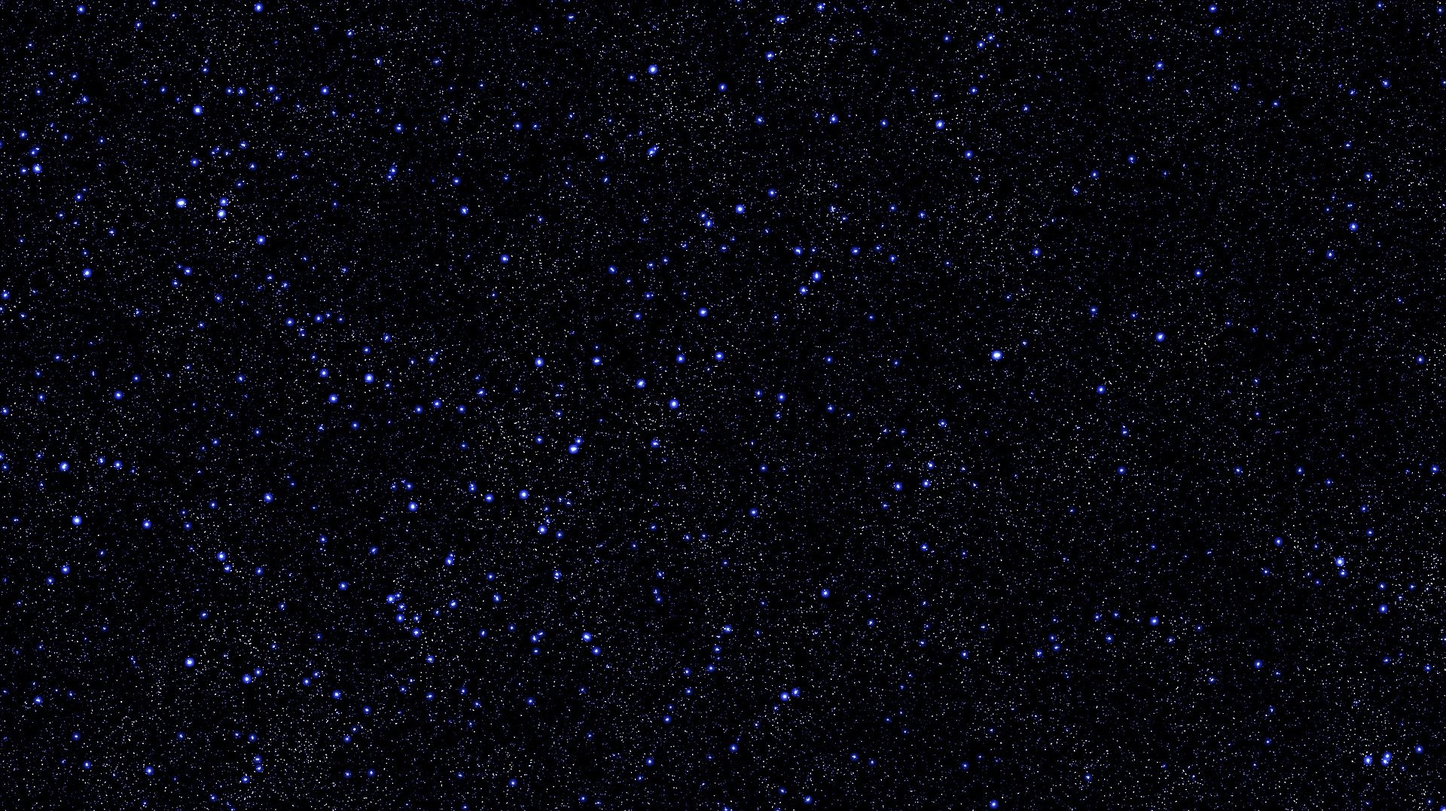
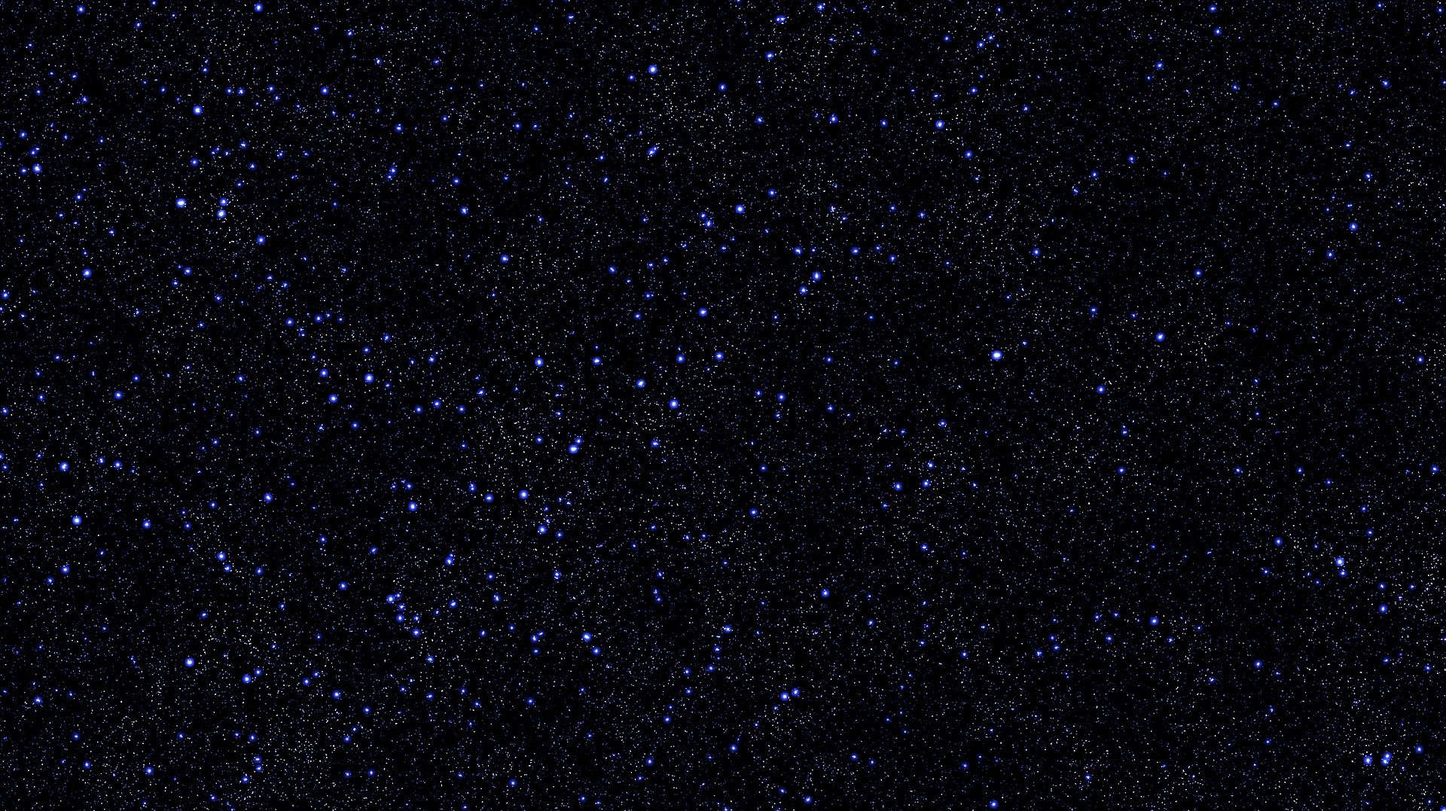
Compress background

diff --git a/js/search.js b/js/search.js
@@ -5,7 +5,7 @@ function dropdownSearch(){
 }
 
 function dropdownItem(dropdownOption, itemUrl){ 
-  deleteDropdown();
+  deleteOptionsDropdown();
   let selectItem = document.getElementById("item");
   let select = document.createElement("select");
   let option = document.createElement("option");
@@ -37,8 +37,6 @@ function itemDetails(){
   let optionValue = itemList.options[itemList.selectedIndex].value;
   swapiRequest(choiceCategory, optionValue);
 }
-
-
 
 function createTable(data){
   let result = document.getElementById("result");
@@ -105,7 +103,7 @@ function createTable(data){
   dropdownItem(dropdownOption, itemUrl);
 }  
  
-function deleteDropdown(){
+function deleteOptionsDropdown(){
   let selectItem = document.getElementById("item");
 
   if(document.getElementById("itemName")){
@@ -123,8 +121,6 @@ function swapiRequest(choiceCategory, optionValue = ''){
     if (httpRequest.readyState === XMLHttpRequest.DONE) {
       if (httpRequest.status === 200) {
         let data = JSON.parse(httpRequest.responseText);
-        /* console.log(data.results);
-        console.log(data); */
         createTable(data);
       } else {
         let message = document.getElementById("message");

diff --git a/index.html b/index.html
@@ -25,13 +25,10 @@
 </head>
 
 <body>
-
-
   <header>
     <div class="container">
-      <h1 class="text-center">Tout ce que vous avez toujours voulu savoir sur<br><strong>STAR WARS</strong><br> sans
-        jamais oser le
-        demander</h1>
+      <h1 class="text-center">Tout ce que vous avez toujours voulu savoir sur<br><strong>STAR WARS</strong><br> 
+        sans jamais oser le demander</h1>
     </div>
   </header>
 
@@ -46,19 +43,13 @@
       <option> starships </option>
       <option> species </option>
     </select>
-    <span id="item">
-    </span>
+    <span id="item"></span>
   </form>
 
   <main class="container">
-    <table class="table table-striped" id="result">
-    </table> 
-    
-
+    <table class="table table-striped" id="result"></table> 
     <div id="message"></div>
-
   </main>
-
 
   <footer id="footer">
     <div class="fst-italic text-center">
